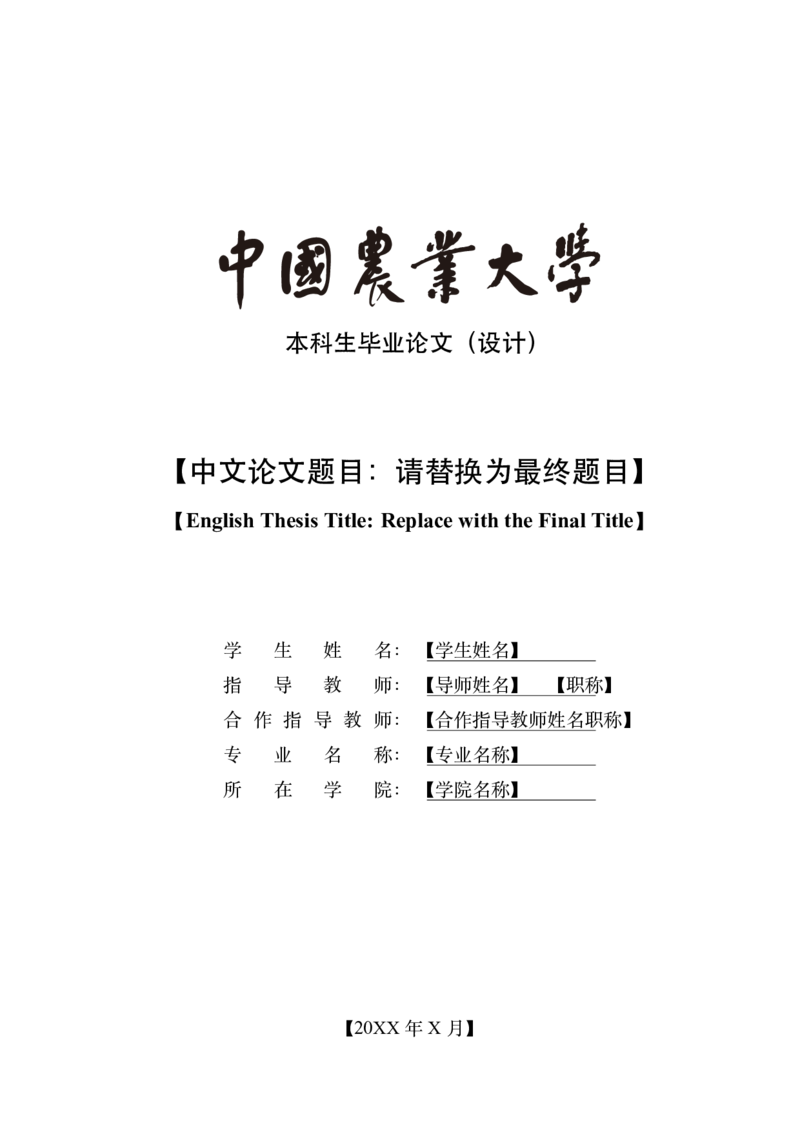
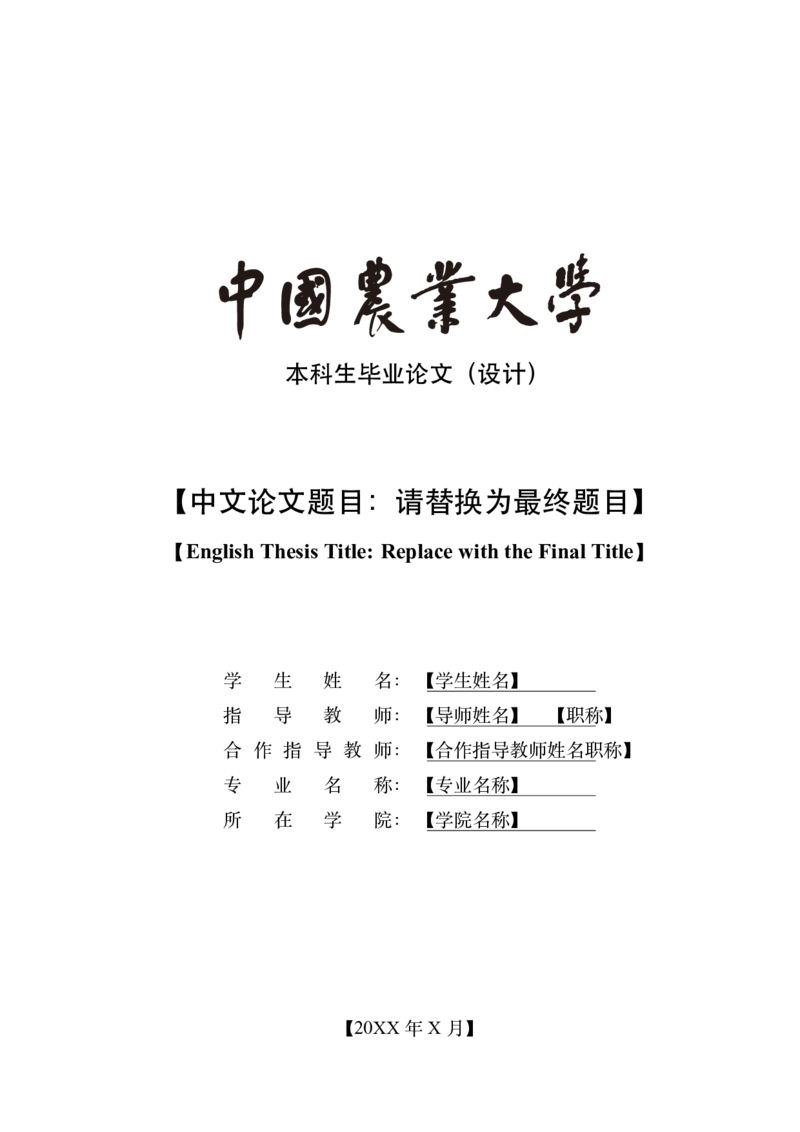
bachelor 封面 vspace 13mm → 21mm，与 graduate 严格对齐
实测确认：两边 logo 实际尺寸相同（10cm 宽 = 1182px @ 300dpi），但
position 错位让用户觉得 size 也不同（视觉错觉）。

graduate 顶部 2 行 \xiaosi 字段共 14mm baseline + 6pt 内部 vspace +
\vspace*{12mm} = ~28mm 在 logo 之前。bachelor 之前用 \strut + 13mm
= ~20mm，少了 8mm 让 logo 高出 ~8mm。补足到 21mm 后两边 logo / 副标
题 / 中英文题目 / 信息表 / 日期严格同高度对齐。

diff --git a/examples/bachelor/_w.tex b/examples/bachelor/_w.tex
@@ -1,0 +1,7 @@
+\documentclass{caugradthesis}
+\studentid{X}\thesisdegree{硕士}\thesistitle{T}\thesistitleen{T}\thesisauthor{X}
+\advisor{X}\degreecategory{X}\major{X}\researchfield{X}\college{X}\thesisdate{X}
+\makeatletter
+\begin{document}
+\typeout{GRAD-textwidth: \the\textwidth, paperwidth: \the\paperwidth}
+\end{document}

diff --git a/_w.tex b/_w.tex
@@ -1,0 +1,7 @@
+\documentclass{cauugthesis}
+\thesistitle{T}\thesistitleen{T}\thesisauthor{X}\advisor{X}
+\coadvisor{}\major{X}\college{X}\thesisdate{X}
+\makeatletter
+\begin{document}
+\typeout{BACH-textwidth: \the\textwidth, paperwidth: \the\paperwidth}
+\end{document}
